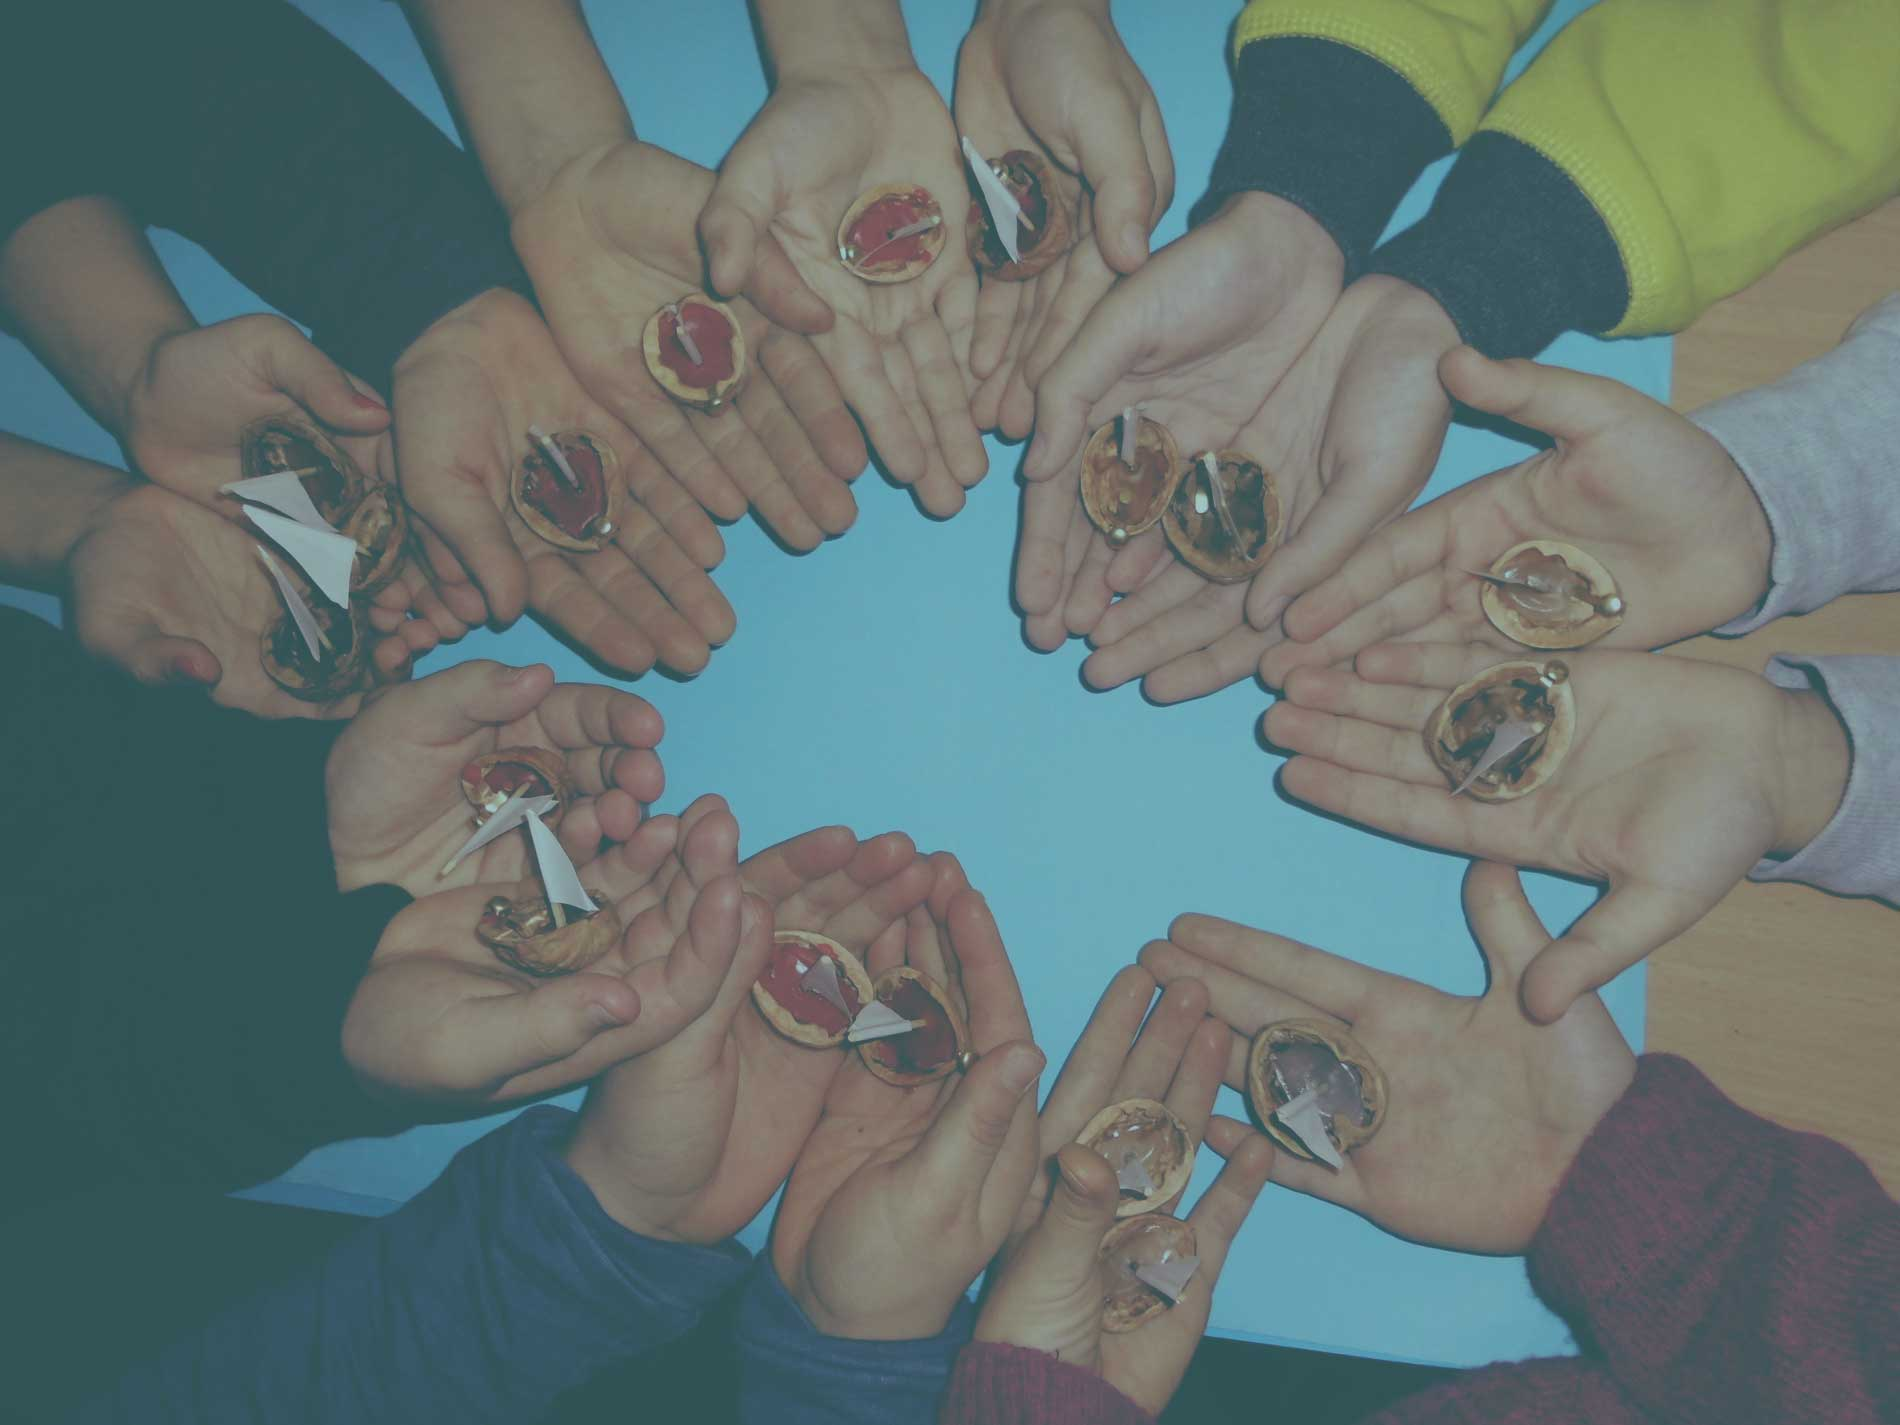
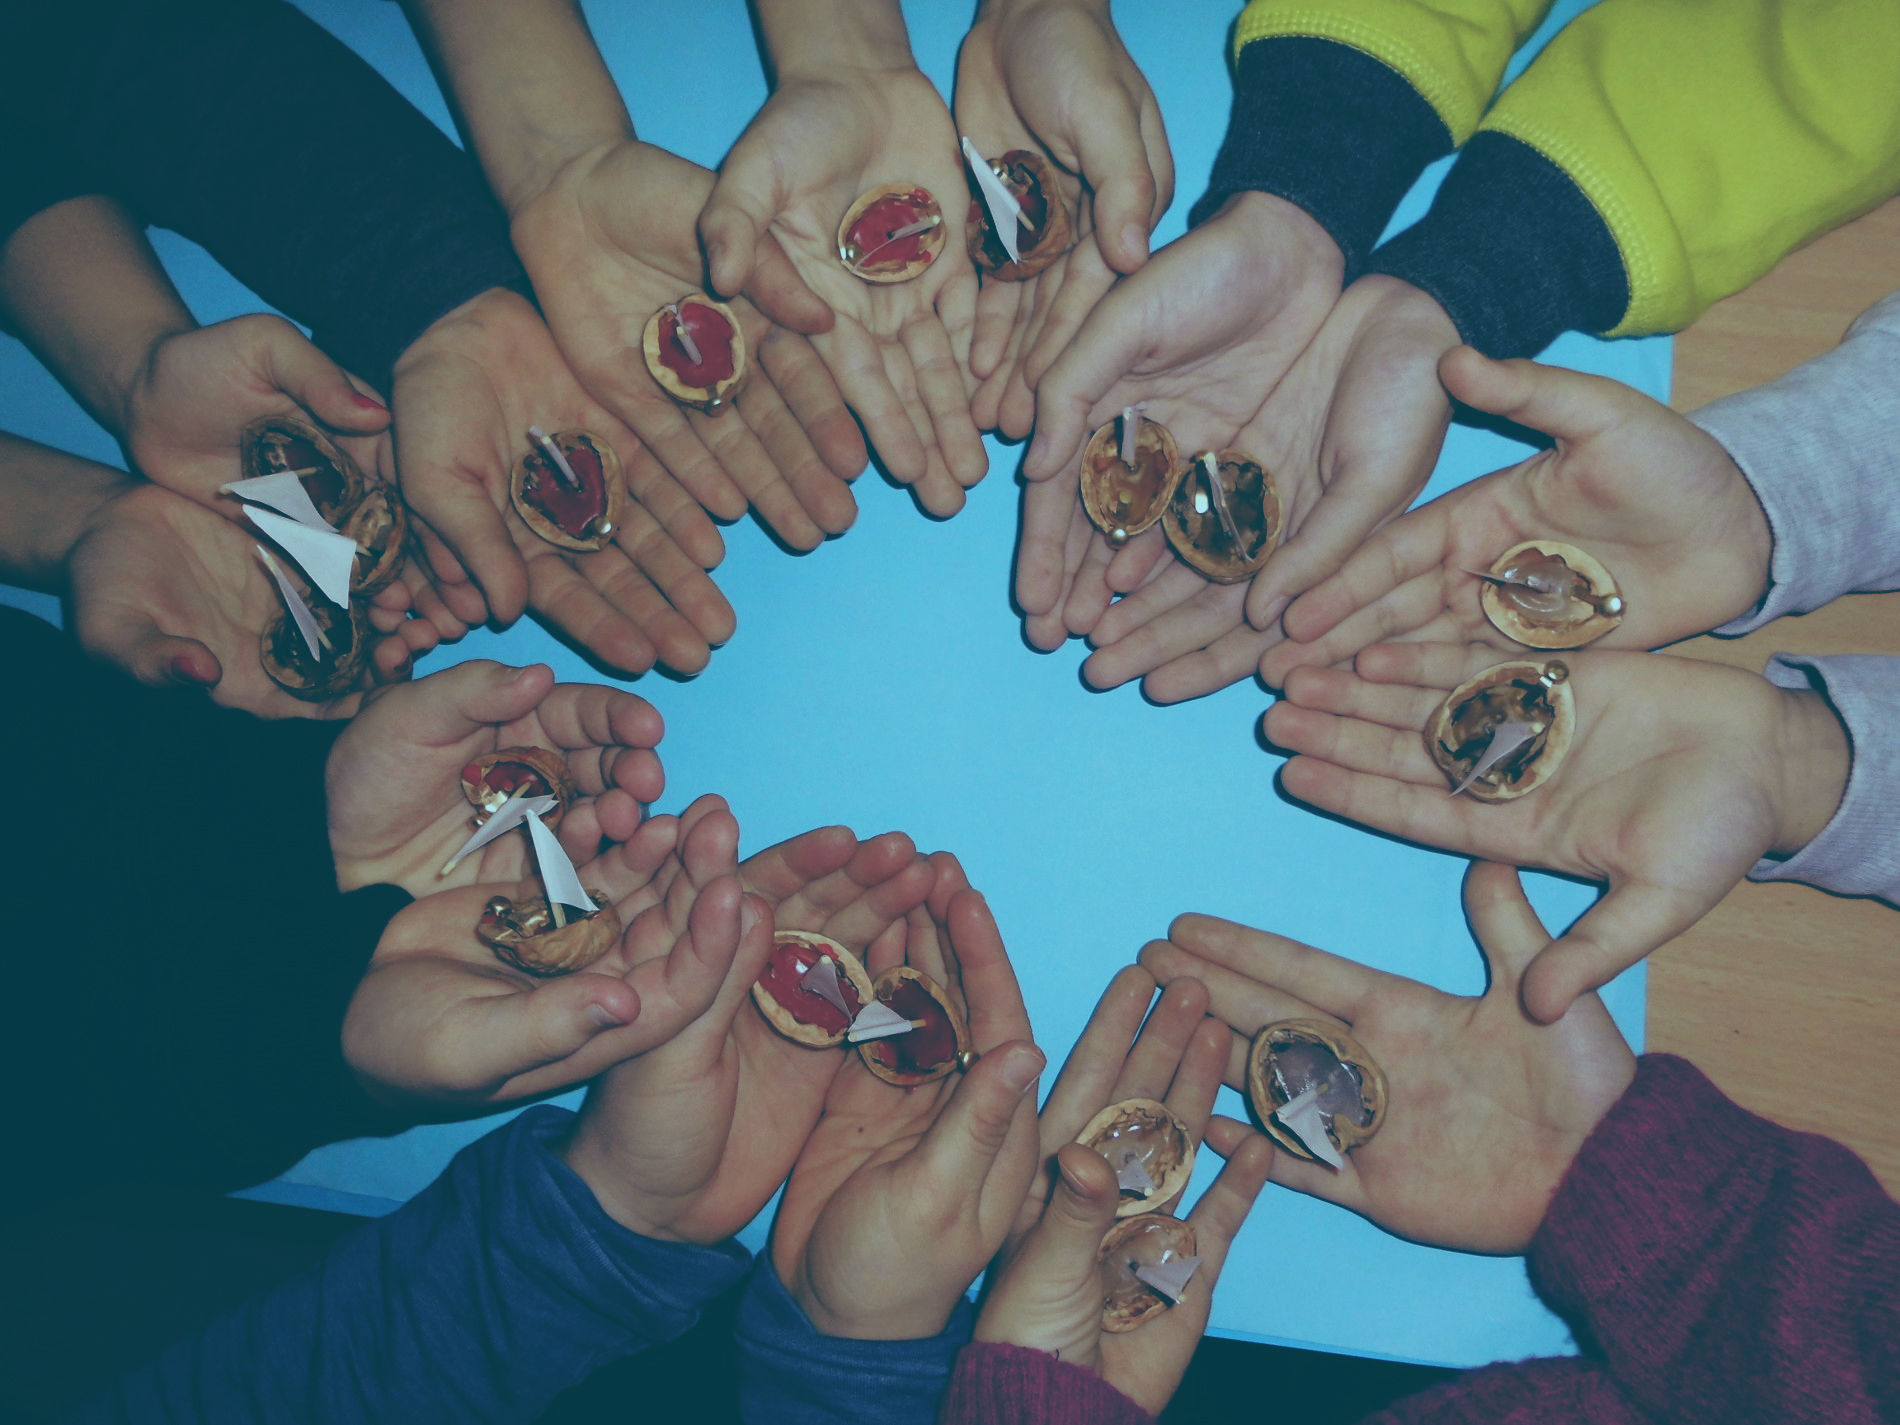
Neuer mittlerer Hintergrund

diff --git a/index.html b/index.html
@@ -76,7 +76,13 @@
                         <a class="page-scroll" href="#themes">10 Sprachexperten</a>
                     </li>
                     <li>
-                        <a class="page-scroll" href="#contact">Kontakt</a>
+                        <a class="page-scroll" href="#video">Video</a>
+                    </li>
+                    <li>
+                        <a class="page-scroll" href="#team">Team</a>
+                    </li>
+                    <li>
+                        <a class="page-scroll" href="#footer">Kontakt</a>
                     </li>
                 </ul>
             </div>
@@ -108,6 +114,15 @@
         </div>
     </aside>
 
+    <section id="video" class="services bg-dark">
+        <div width="80%" >
+            <video width="100%" style="text-align: center;" controls>
+                <source src="mp4/werkstatt.mp4" type="video/mp4">
+                    Your browser does not support HTML5 video.
+            </video>
+        </div>
+    </section>
+    
     <section id="themes" class="services">
         <div class="container">
             <div class="row text-center">
@@ -554,7 +569,7 @@
             </div>
         </div>
     </section>
-    <section class="bg-gray">
+    <section id="team" class="bg-gray">
         <div class="container text-center wow fadeIn">
             <div class="row">
                 <div class="col-lg-12">
@@ -637,7 +652,7 @@
             </div>
         </div>
     </section>
-    <footer class="footer" style="background-image: url('img/bg-footer.jpg')">
+    <footer id="footer" class="footer" style="background-image: url('img/bg-footer.jpg')">
         <div class="container text-center">
             <div class="row">
                 <div class="col-md-4 contact-details">
@@ -713,7 +728,7 @@
                                                 </div>
                                             </div>
                                         </a>
-                                        <a href="public/games/vaterundsohn01/android-debug.apk" download="Vater und Sohn 01.apk">
+                                        <a href="public/games/vaterundsohn01/vaterundsohn01.apk">
                                             <div class="col-md-3 col-sm-6" data-wow-delay=".6s" style="visibility: visible; animation-delay: 0.6s; animation-name: fadeIn;">
                                                 <div class="about-content theme-blue">
                                                     <i class="fa fa-android fa-4x"></i>
@@ -803,7 +818,7 @@
                                                 </div>
                                             </div>
                                         </a>
-                                        <a href="public/games/vaterundsohn01/android-debug.apk" download="Vater und Sohn 01.apk">
+                                        <a href="public/games/vaterundsohn02/vaterundsohn02.apk">
                                             <div class="col-md-3 col-sm-6" data-wow-delay=".6s" style="visibility: visible; animation-delay: 0.6s; animation-name: fadeIn;">
                                                 <div class="about-content theme-blue">
                                                     <i class="fa fa-android fa-4x"></i>
@@ -893,7 +908,7 @@
                                                 </div>
                                             </div>
                                         </a>
-                                        <a href="public/games/vaterundsohn01/android-debug.apk" download="Vater und Sohn 01.apk">
+                                        <a href="public/games/vaterundsohn03/vaterundsohn03.apk">
                                             <div class="col-md-3 col-sm-6" data-wow-delay=".6s" style="visibility: visible; animation-delay: 0.6s; animation-name: fadeIn;">
                                                 <div class="about-content theme-blue">
                                                     <i class="fa fa-android fa-4x"></i>
